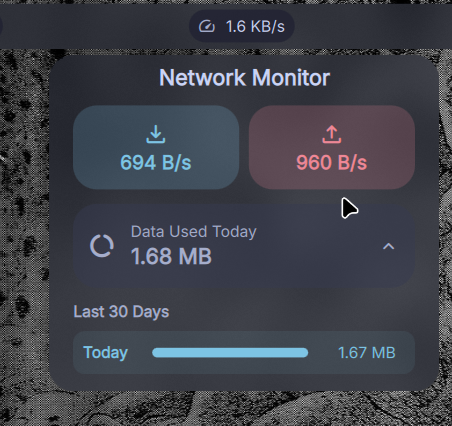
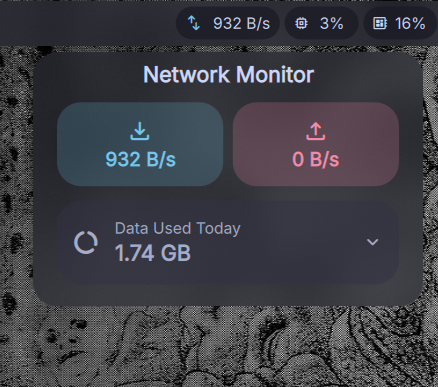
Add overall usage summary to Network Indicator
- Implement staggered entrance animations for the UI elements.
- Update project screenshots to reflect recent UI changes.
- Add project README.

diff --git a/NetworkIndicator.qml b/NetworkIndicator.qml
@@ -166,6 +166,17 @@ PluginComponent {
         return max > 0 ? max : 1;
     }
 
+    // ── Get overall usage across all stored days (up to 30) ──
+    function getOverallUsage() {
+        if (!usageData || !usageData.days) return { total: 0, dayCount: 0 };
+        var sum = 0;
+        var keys = Object.keys(usageData.days);
+        for (var i = 0; i < keys.length; i++) {
+            sum += (usageData.days[keys[i]].rx || 0) + (usageData.days[keys[i]].tx || 0);
+        }
+        return { total: sum, dayCount: keys.length };
+    }
+
     // ── Timer to poll network stats ──
     Timer {
         id: pollTimer
@@ -378,6 +389,10 @@ PluginComponent {
                 size: root.iconSize
                 color: root.totalSpeed > 0 ? Theme.primary : Theme.surfaceVariantText
                 anchors.verticalCenter: parent.verticalCenter
+
+                Behavior on color {
+                    ColorAnimation { duration: 200; easing.type: Easing.OutCubic }
+                }
             }
 
             // Combined mode: single total speed
@@ -568,7 +583,7 @@ PluginComponent {
 
                             StyledText {
                                 visible: !root.interfaceFound
-                                text: "No network connection"
+                                text: "No internet connection"
                                 font.pixelSize: Theme.fontSizeSmall
                                 color: Theme.error
                                 horizontalAlignment: Text.AlignHCenter
@@ -731,8 +746,8 @@ PluginComponent {
                                         // Cache max usage for bar proportions (avoids O(n²) in Repeater)
                                         root._maxDailyUsage = root.getMaxDailyUsage();
                                         // 196 base + header(~24) + per-row(36 + spacingXS) * count, clamped
-                                        var historyH = 28 + entries.length * 40;
-                                        root.popoutHeight = Math.min(220 + historyH, 560);
+                                        var historyH = 28 + entries.length * 40 + 44;
+                                        root.popoutHeight = Math.min(220 + historyH, 600);
                                     } else {
                                         root.popoutHeight = 220;
                                     }
@@ -752,7 +767,7 @@ PluginComponent {
                                 NumberAnimation { duration: 150; easing.type: Easing.OutCubic }
                             }
                             Behavior on opacity {
-                                NumberAnimation { duration: 100; easing.type: Easing.OutCubic }
+                                NumberAnimation { duration: 150; easing.type: Easing.OutCubic }
                             }
 
                             Column {
@@ -781,32 +796,36 @@ PluginComponent {
                                         radius: Theme.cornerRadius / 2
                                         color: modelData.date === root.todayKey
                                             ? Qt.rgba(Theme.primary.r, Theme.primary.g, Theme.primary.b, 0.08)
-                                            : Theme.surfaceContainerHigh
+                                            : Qt.rgba(Theme.surfaceVariantText.r, Theme.surfaceVariantText.g, Theme.surfaceVariantText.b, 0.1)
 
-                                        // Entrance animations: fade-in + slide-up
+
+                                        // Entrance animations: staggered fade-in + slide-up
                                         opacity: 0
                                         transform: Translate { id: rowTranslate; y: 8 }
 
                                         Component.onCompleted: {
-                                            fadeInAnim.start();
-                                            slideUpAnim.start();
+                                            rowEntranceAnim.start();
                                         }
 
-                                        NumberAnimation {
-                                            id: fadeInAnim
-                                            target: historyRow
-                                            property: "opacity"
-                                            from: 0; to: 1
-                                            duration: 100
-                                            easing.type: Easing.OutCubic
-                                        }
-                                        NumberAnimation {
-                                            id: slideUpAnim
-                                            target: rowTranslate
-                                            property: "y"
-                                            from: 8; to: 0
-                                            duration: 120
-                                            easing.type: Easing.OutCubic
+                                        SequentialAnimation {
+                                            id: rowEntranceAnim
+                                            PauseAnimation { duration: index * 25 }
+                                            ParallelAnimation {
+                                                NumberAnimation {
+                                                    target: historyRow
+                                                    property: "opacity"
+                                                    from: 0; to: 1
+                                                    duration: 120
+                                                    easing.type: Easing.OutCubic
+                                                }
+                                                NumberAnimation {
+                                                    target: rowTranslate
+                                                    property: "y"
+                                                    from: 8; to: 0
+                                                    duration: 120
+                                                    easing.type: Easing.OutCubic
+                                                }
+                                            }
                                         }
 
                                         Row {
@@ -866,6 +885,80 @@ PluginComponent {
                                             }
                                         }
                                     }
+                                }
+
+                                // ── Total row ──
+                                Item {
+                                    id: totalRowWrapper
+                                    width: historyColumnInner.width
+                                    height: totalRow.height + Theme.spacingS
+                                    opacity: 0
+                                    transform: Translate { id: totalRowTranslate; y: 8 }
+
+                                    Component.onCompleted: {
+                                        totalRowEntranceAnim.start();
+                                    }
+
+                                    SequentialAnimation {
+                                        id: totalRowEntranceAnim
+                                        PauseAnimation { duration: root.getHistoryEntries().length * 25 }
+                                        ParallelAnimation {
+                                            NumberAnimation {
+                                                target: totalRowWrapper
+                                                property: "opacity"
+                                                from: 0; to: 1
+                                                duration: 120
+                                                easing.type: Easing.OutCubic
+                                            }
+                                            NumberAnimation {
+                                                target: totalRowTranslate
+                                                property: "y"
+                                                from: 8; to: 0
+                                                duration: 120
+                                                easing.type: Easing.OutCubic
+                                            }
+                                        }
+                                    }
+
+                                StyledRect {
+                                    id: totalRow
+                                    y: Theme.spacingS
+                                    width: parent.width
+                                    height: 36
+                                    radius: Theme.cornerRadius / 2
+                                    color: Qt.rgba(Theme.surfaceText.r, Theme.surfaceText.g, Theme.surfaceText.b, 0.08)
+
+                                    Row {
+                                        anchors.fill: parent
+                                        anchors.leftMargin: Theme.spacingS
+                                        anchors.rightMargin: Theme.spacingS
+
+                                        StyledText {
+                                            text: "Total"
+                                            font.pixelSize: Theme.fontSizeSmall
+                                            font.weight: Font.Bold
+                                            color: Theme.surfaceText
+                                            width: Math.max(50, implicitWidth)
+                                            anchors.verticalCenter: parent.verticalCenter
+                                        }
+
+                                        Item {
+                                            width: parent.width - 50 - Math.max(65, overallLabel.implicitWidth) - Theme.spacingS
+                                            height: 1
+                                        }
+
+                                        StyledText {
+                                            id: overallLabel
+                                            text: root.formatBytes(root.getOverallUsage().total)
+                                            font.pixelSize: Theme.fontSizeSmall
+                                            font.weight: Font.Bold
+                                            color: Theme.surfaceText
+                                            horizontalAlignment: Text.AlignRight
+                                            width: Math.max(65, implicitWidth)
+                                            anchors.verticalCenter: parent.verticalCenter
+                                        }
+                                    }
+                                }
                                 }
                             }
                         }

diff --git a/README.md b/README.md
@@ -1,0 +1,69 @@
+# 🌐 Network Indicator — DankBar Widget
+
+A real-time network speed and data usage monitor plugin for [DankMaterialShell](https://danklinux.com/docs/dankmaterialshell/overview). It shows upload (↑) and download (↓) speeds directly in your DankBar, and automatically tracks your daily data usage!
+
+![Screenshot 1](screenshot.png)
+![Screenshot 2](screenshot2.png)
+
+## ✨ Features
+
+- 📊 **Live upload & download speeds** right in your DankBar
+- 📅 **30-day data usage history** — persistent across reboots
+- 🔌 **Automatic offline detection** — shows when your connection drops
+- ↕️ **Works in horizontal and vertical bars**
+- ⚙️ **Configurable** — combined or separate speed readouts, adjustable units & polling rate
+- 🪶 **Zero dependencies** — pure Linux, no extra packages needed
+
+## 📦 Installation
+
+### Option 1: DMS Plugin Manager (recommended)
+
+1. Open **DMS Settings** → **Plugins**
+2. Click **Browse** and search for **Network Indicator**
+3. Click **Install**, then restart: `dms restart`
+
+### Option 2: DMS CLI
+
+```bash
+dms plugins install network-indicator
+dms restart
+```
+
+### Option 3: Manual (git clone)
+
+```bash
+cd ~/.config/DankMaterialShell/plugins
+git clone https://github.com/gemb0-0/Network-Indicator.git "Network Indicator"
+dms restart
+```
+
+### After installing
+
+1. Open **DMS Settings → Plugins** and click **Scan for Plugins**
+2. Toggle **Network Indicator** on
+3. Add it to your **DankBar** widget list
+4. Restart: `dms restart`
+
+## 🎛️ Settings
+
+| Setting | Description | Default |
+|---------|-------------|---------|
+| **Update Interval** | Polling frequency in seconds (e.g., `1` to `10`) | 2 sec |
+| **Display Unit** | Auto / KB/s / MB/s | Auto |
+| **Display Mode** | **Separate** (show ↑ and ↓) or **Combined** (single total speed) | Separate |
+
+## 🛠️ How It Works
+
+The plugin reads Linux's built-in network statistics — no external tools required.
+
+| What | Source | Purpose |
+|------|--------|---------|
+| Byte counters | `/proc/net/dev` | Calculates upload/download speed deltas each poll |
+| Link state | `/sys/class/net/*/operstate` | Detects online/offline instantly |
+| Persistence | DMS Plugin State API | Saves daily usage across reboots (30-day rolling window) |
+
+It automatically finds your active network interface, ignoring loopback and virtual interfaces (docker, veth, etc.).
+
+## 📄 License
+
+MIT